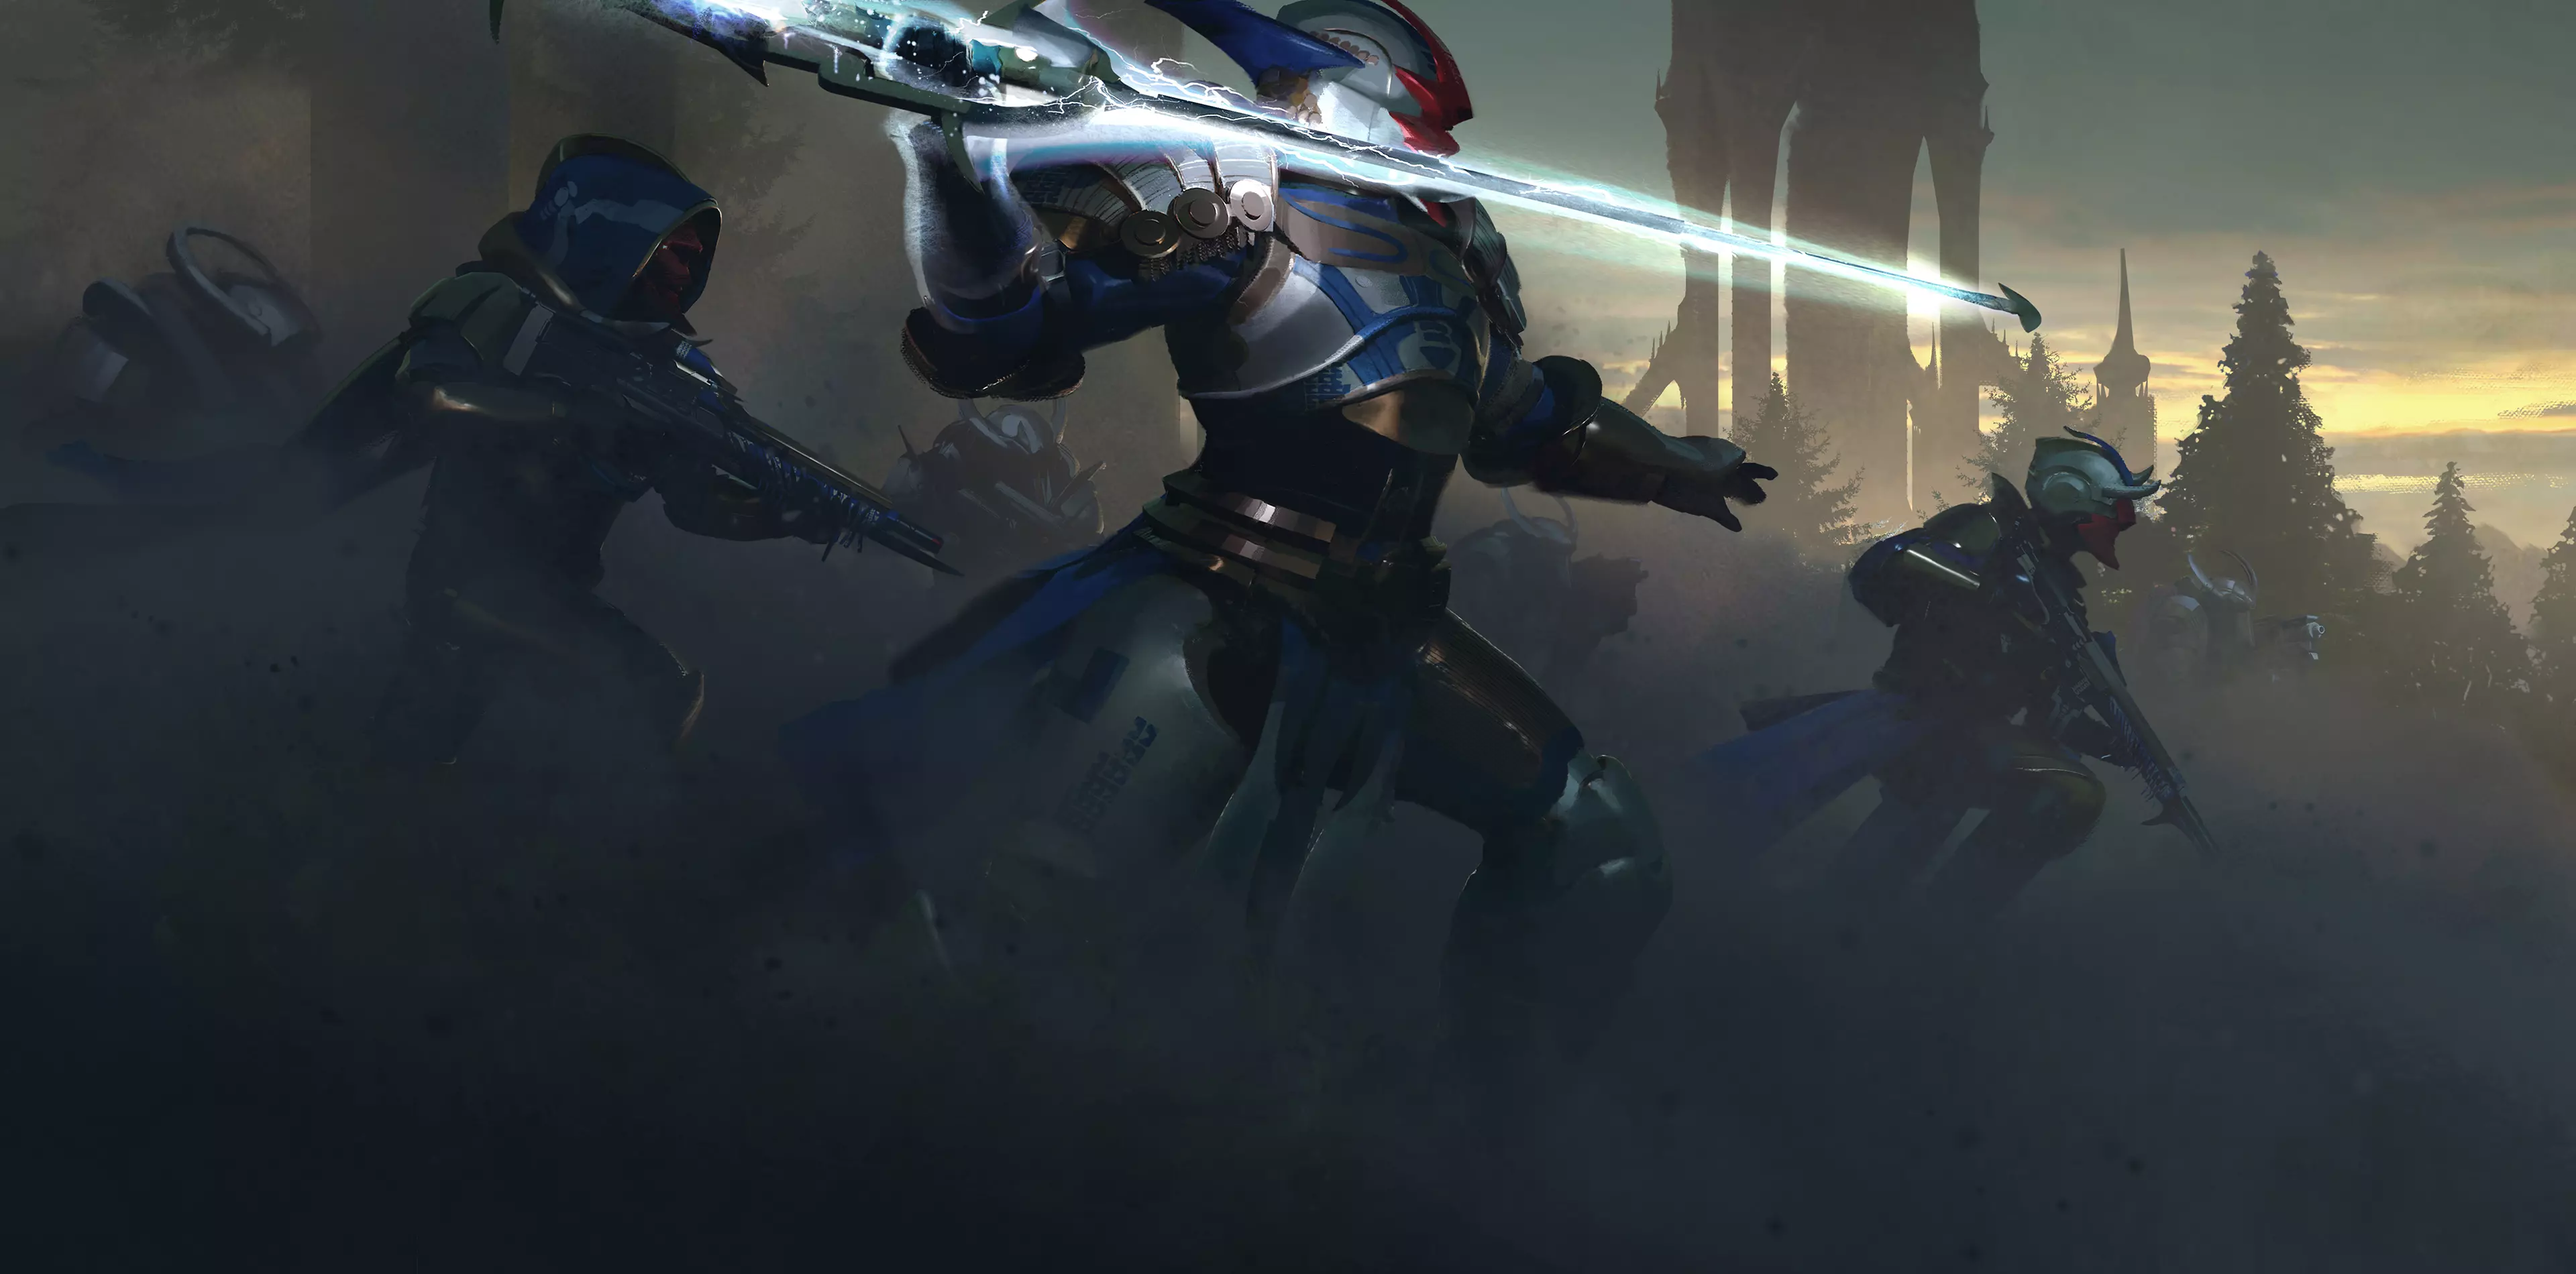
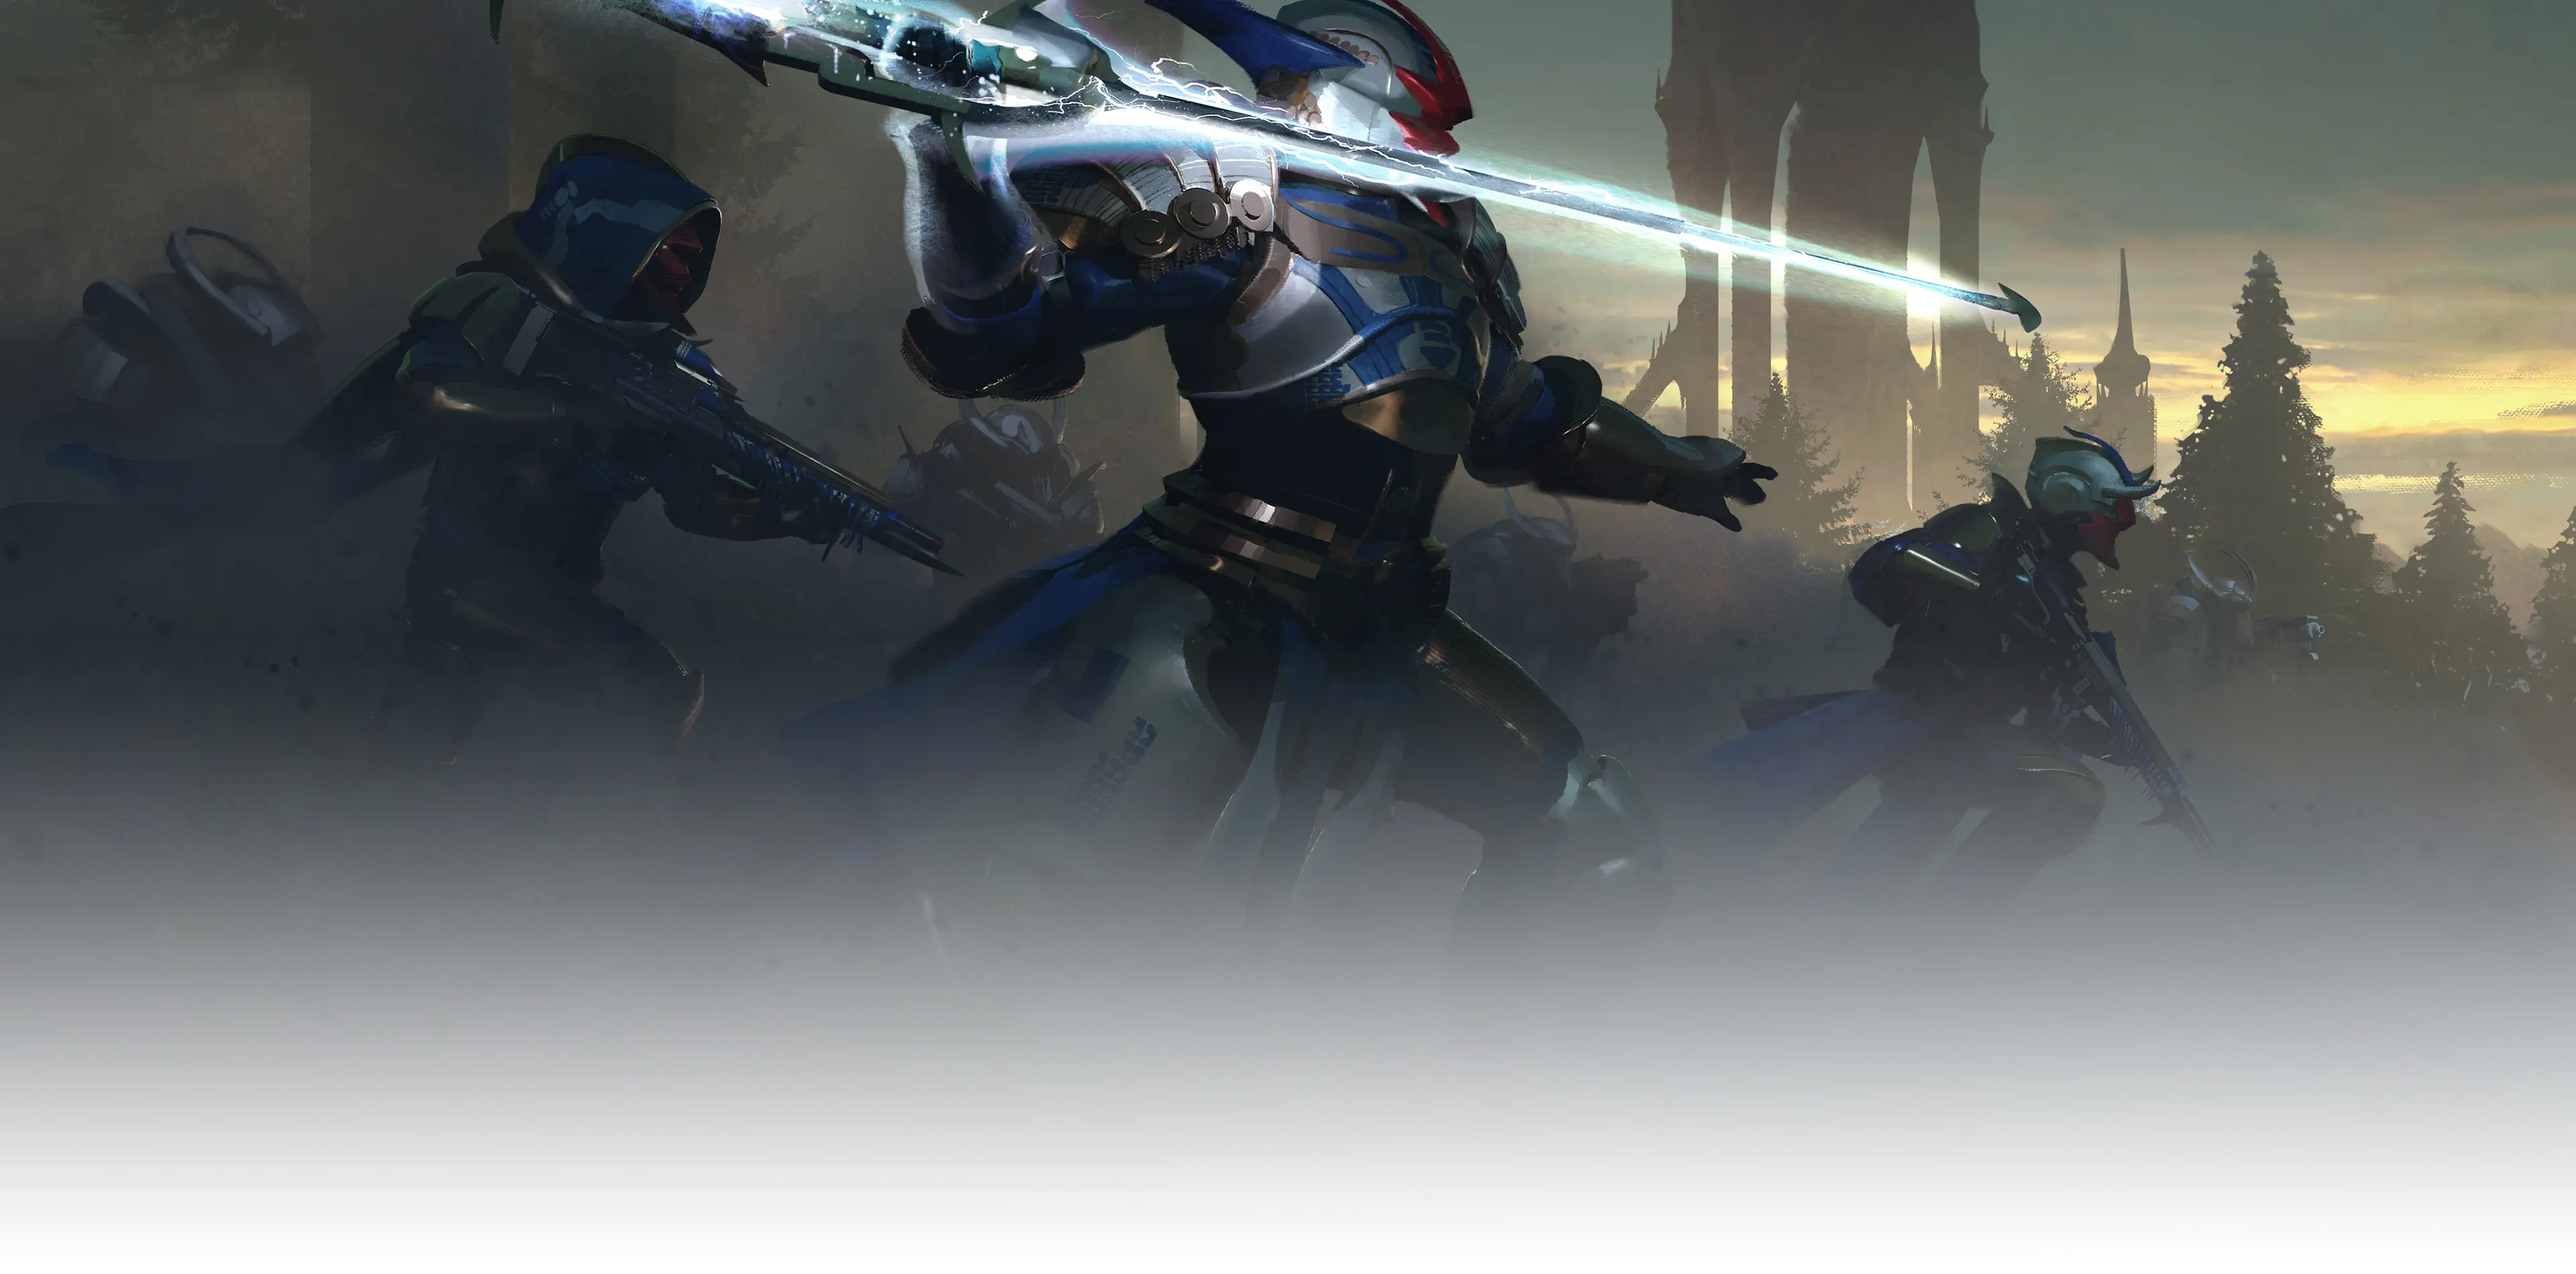
join page finalisation

diff --git a/join.html b/join.html
@@ -18,7 +18,7 @@
   <body>
     
     <div class="landing-title-bgimage"></div>
-    <div class="landing-title-gradient"></div>
+    <!-- <div class="landing-title-gradient"></div> -->
     
     <main>
 
@@ -66,20 +66,24 @@
       <p class="section-text">1. We only accept 18yo or older members</p>
       <p class="section-text">2. Everyone is asked to have at least 30 minutes of voice activity every two weeks. Needless to say, we all have our own lives and plans, so breaks are totally allowed, given that admins are aware of them</p>
       <p class="section-text">3. Any disrespect to other people will not be tolerated</p>
-      <p class="section-text">4. Discord is our main and pretty much only mean of clan communications</p>
+      <p class="section-text">4. Discord is our main and pretty much only mean of clan comms</p>
 
       <div style="height: 2rem;"></div>
 
       <p class="join-notice-line"><span class="yellow">Important</span>: our application form is a bit out of date.</p>
       <p class="join-notice-line">Please make sure to select PC as your platform regardless of your actual platform</p>
+      
+      <!-- <div style="height: 1rem;"></div>
+      <p class="join-notice-line"><span class="yellow">Important 2</span>: if you have a PC, please join from desktop</p>
+      <p class="join-notice-line">Discord has a problem syncing profiles from mobile platforms</p> -->
 
       <div style="height: 1rem;"></div>
-      <div class="join-button"> 
+      <a class="join-button" href="https://seismicgaming.eu/join" target="_blank"> 
         <div class="glowbox"></div>
         <div class="glowbox2"></div>
         <div class="join-button-bg"></div>
         <div class="join-button-text">Join with Discord</div>
-      </div>
+      </a>
 
       <div style="height: 2rem;"></div>
 
@@ -88,25 +92,36 @@
       <div style="height: 8rem;"></div>
       <div class="section-header">More about us</div>
 
-      <p class="section-text">Our main inspiration is the teamwork that is only possible in Destiny, and we like to challenge ourselves as well as help more people explore those raids, dungeons, GMs to create more of passionate guardians like us. Some amount of sweat is involved at times, but I think that any sane person is more than able to enjoy those things.</p>
-      <p class="section-text">The second important part is having a community of active people to play, talk, and have general fun with instead of your average come-and-go LFG experience. We think it’s more fun to interact with the same friendly people more often, create more memorable experiences, go for advanced challenges with trusty comrades and just fool around without stressing it.</p>
+      <p class="section-text">Our main inspiration is the <span class="red">teamwork</span> that is only possible in Destiny, and we like to challenge ourselves as well as help more people explore those raids, dungeons, GMs to create more of passionate guardians like us. Some amount of sweat is involved at times, but I think that any sane person is more than able to enjoy those things.</p>
+      <p class="section-text">The second important part is having a <span class="red">community of active people</span> to play, talk, and have general fun with instead of your average come-and-go LFG experience. We think it’s more fun to interact with the same friendly people more often, create more memorable experiences, go for advanced challenges with trusty comrades and just fool around without stressing it.</p>
 
       <div style="height: 2rem;"></div>
       <div class="emblems-container">
-        <img src="./assets/img/joinpage-emblem-sgj.png" class="emblems-img" style="grid-column: 1;">
-        <div class="emblems-caption" style="grid-column: 1;">SGJ</div>
-        <div class="emblems-subcaption" style="grid-column: 1;">Juggernauts</div>
+        <a class="emblem-item" style="grid-column: 1;" href="https://www.bungie.net/en/ClanV2?groupId=3285991" target="_blank">
+          <img src="./assets/img/joinpage-emblem-sgj.png" class="emblems-img">
+          <div class="emblems-caption">SGJ</div>
+          <div class="emblems-subcaption">Juggernauts</div>
+        </a>
         <!-- -->
-        <img src="./assets/img/joinpage-emblem-sgp.png" class="emblems-img" style="grid-column: 3;">
-        <div class="emblems-caption" style="grid-column: 3;">SGP</div>
-        <div class="emblems-subcaption" style="grid-column: 3;">Pathfinders</div>
+        <a class="emblem-item" style="grid-column: 3;" href="https://www.bungie.net/en/ClanV2?groupId=3909446" target="_blank">
+          <img src="./assets/img/joinpage-emblem-sgp.png" class="emblems-img">
+          <div class="emblems-caption">SGP</div>
+          <div class="emblems-subcaption">Pathfinders</div>
+        </a>
+        
       </div>
 
       <div style="height: 2rem;"></div>
-      <p class="section-text">Seismic Destiny 2 is a fairly independent, but integral part of large community called Seismic Gaming, our main website is seismicgaming.eu. There are many more awesome people playing different games and just having good time together and you are free to interact and play with them as well if you wish to do so.</p>
+      <p class="section-text">Seismic Destiny 2 is a fairly independent, but integral part of large community called Seismic Gaming, our main website is <a href="https://seismicgaming.eu">seismicgaming.eu</a>. There are many more awesome people playing different games and just having good time together and you are free to interact and play with them as well if you wish to do so.</p>
       <p class="section-text">Destiny 2 division has a population of around 100-150 players and is split into two subclans (clans in D2 can only have 100 members or less): Seismic Juggernauts for EU timezones and Seismic Pathfinders for NA timezones.</p>
       
-      <div style="height: 16rem"></div>
+      <div style="height: 2rem;"></div>
+      <div class="section-header">Additional links</div>
+      <p class="section-text">Our main community website: <a href="https://seismicgaming.eu">seismicgaming.eu</a></p>
+      <p class="section-text">Seismic Destiny 2 web resource: <a href="https://seismic-d2.github.io">seismic-d2.github.io</a></p>
+      <p class="section-text">Join clan: <a href="https://seismicgaming.eu/join">seismicgaming.eu/join</a></p>
+      
+      <div style="height: 4rem"></div>
       
 
     </main>
@@ -131,7 +146,7 @@
     
     html {
       background-color: #1D2023;
-      
+      background-image: url("./assets/img/topo-pattern-5d.jpg");
       font-family: 'Atkinson Hyperlegible', sans-serif;
       font-size: 14pt;
       letter-spacing: .026rem;
@@ -192,6 +207,10 @@
       margin-top: 0.2rem;
       margin-bottom: 0;
       line-height: 1rem;
+    }
+    
+    a {
+      color: #58a6ff;
     }
 
 

diff --git a/join.css b/join.css
@@ -73,11 +73,11 @@
 /*    02. Activity icons      */
 
 .activities-icons-container {
-  width: 40rem;
+  width: 41rem;
   margin-left: auto;
   margin-right: auto;
   display: flex;
-  justify-content: space-between;
+  justify-content: space-around;
   align-items: center;
 }
 @media (max-aspect-ratio: 1/1) {
@@ -184,6 +184,9 @@
 .yellow {
   color: #FFC453;
 }
+.red {
+  color: #EF4839;
+}
 
 .join-button {
   position: relative;
@@ -196,6 +199,9 @@
   margin-right: auto;
   cursor: pointer;
   user-select: none;
+  
+  color: #eee;
+  text-decoration: none;
 }
 .join-button-bg {
   position: absolute;
@@ -222,13 +228,22 @@
 
 
 
+
+
 .emblems-container {
   width: 20rem;
   margin-left: auto;
   margin-right: auto;
   display: grid;
-  grid-template-rows: 4rem auto auto;
   grid-template-columns: 6rem 1fr 6rem;
+}
+.emblem-item {
+  width: 6rem;
+  display: grid;
+  grid-template-rows: 4rem auto auto;
+  
+  color: #eee;
+  text-decoration: none;
 }
 .emblems-img {
   grid-row: 1;
